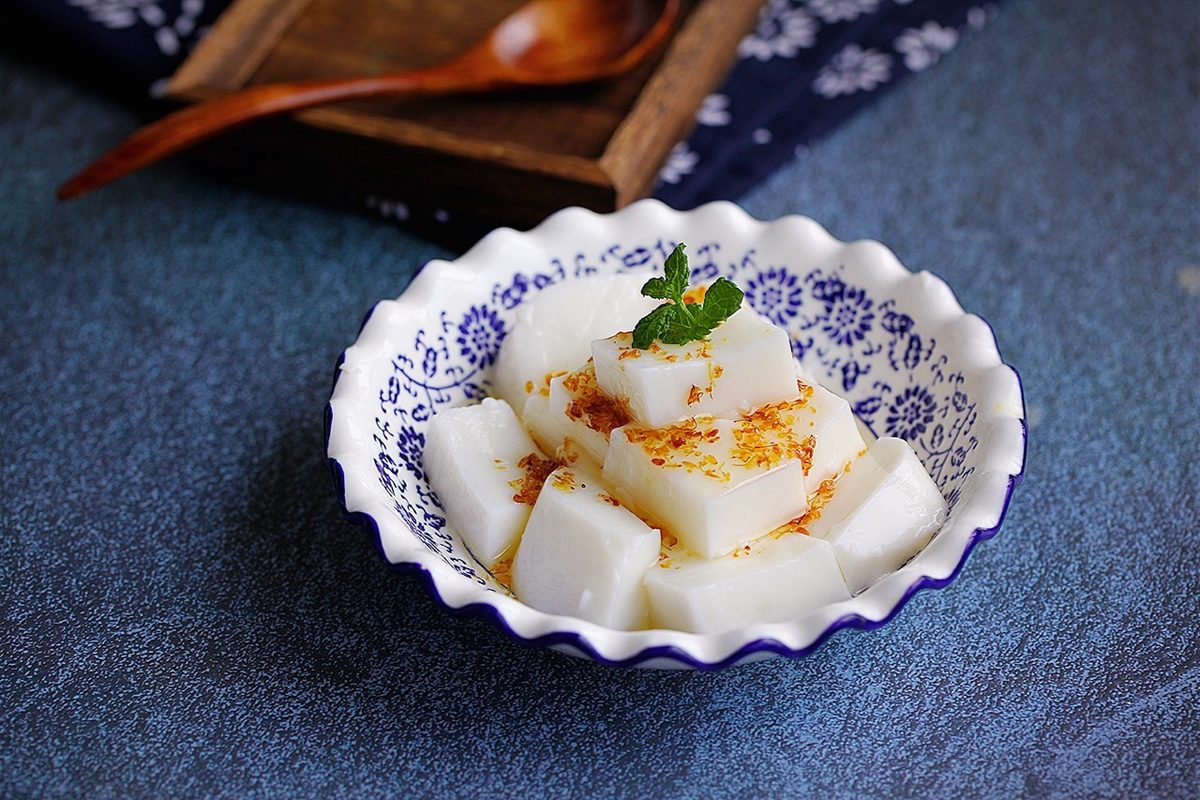
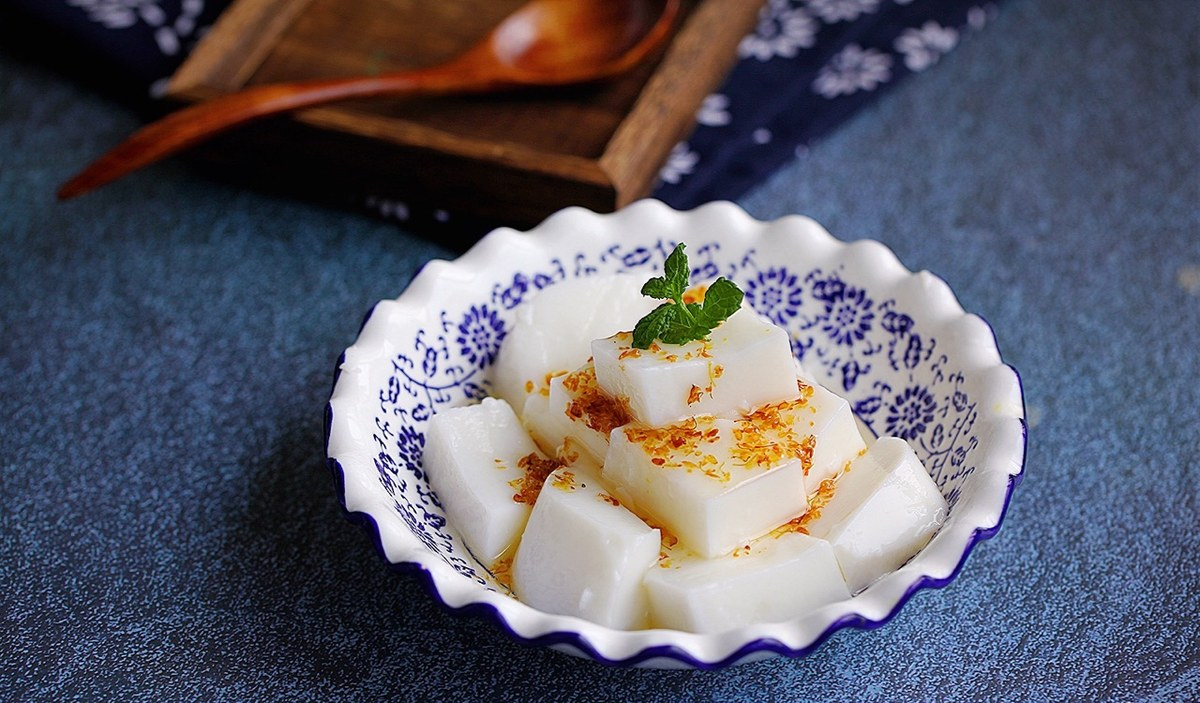
cuisine: almond tofu hero — crop bottom band, bump cache-bust to v=2

diff --git a/cuisine/almond-tofu/index.html b/cuisine/almond-tofu/index.html
@@ -19,7 +19,7 @@ gtag('config', 'G-R77QY66D94');
 <a href=/posts/index.xml title="Tech RSS feed — copy this link into your feed reader">Tech</a>
 <a href=/cuisine/index.xml title="Chinese Cuisine RSS feed — copy this link into your feed reader">Food</a>
 <a href=/tea/index.xml title="Chinese Tea RSS feed — copy this link into your feed reader">Tea</a>
-<a href=/drinks/index.xml title="Chinese Drinks RSS feed — copy this link into your feed reader">Chinese Drinks</a></span></div></nav></header><main><article class=cuisine-post><header><h1>Almond Tofu: No Tofu, No Almond, All Summer</h1><p class=byline>By <a href=/about/>Zhouyang</a> · Shanghai</p><div class=meta><time>2026-11-06</time> <span class=tags><span class=tag>beijing</span><span class=tag>dessert</span><span class=tag>sweet</span><span class=tag>summer</span><span class=tag>almond</span></span></div></header><div class=content><p><img src="/images/almond-tofu-1.jpg?v=1" alt="Almond tofu — a stack of white cubes dusted with dried osmanthus in a blue-and-white bowl" width="1200" height="800" decoding="async" fetchpriority="high"></p>
+<a href=/drinks/index.xml title="Chinese Drinks RSS feed — copy this link into your feed reader">Chinese Drinks</a></span></div></nav></header><main><article class=cuisine-post><header><h1>Almond Tofu: No Tofu, No Almond, All Summer</h1><p class=byline>By <a href=/about/>Zhouyang</a> · Shanghai</p><div class=meta><time>2026-11-06</time> <span class=tags><span class=tag>beijing</span><span class=tag>dessert</span><span class=tag>sweet</span><span class=tag>summer</span><span class=tag>almond</span></span></div></header><div class=content><p><img src="/images/almond-tofu-1.jpg?v=2" alt="Almond tofu — a stack of white cubes dusted with dried osmanthus in a blue-and-white bowl" width="1200" height="703" decoding="async" fetchpriority="high"></p>
 <p>The bowl lands on the table already sweating. Condensation runs down its side and pools in a ring on the wood. Inside: a white cube, half sunk in clear syrup, with a few dried osmanthus flowers floating around it like something that drowned there. When you set the bowl down, the cube trembles. Then it holds still.</p>
 <p>Beijing, July, the kind of afternoon where the heat comes up through your soles. I was twenty-six, in town for a week with no plan beyond walking until I got hungry, and I ducked into a sweet shop on a hutong side street for the air conditioning. The waiter set the bowl down and said the name — 杏仁豆腐 — the way you'd say the name of an old friend who isn't doing well. I asked whether it was made with almonds. He looked at me, decided the question wasn't worth a full sentence, and said: eat it.</p>
 <p>The name is wrong twice. 杏仁豆腐 (<em>xìngrén dòufu</em>) means "apricot kernel tofu." English menus flattened the first word into "almond" and dropped the second half of the story. So: no almond, not the kind you eat out of a bag. The kernel comes from an apricot or a peach pit. And no tofu — no soybean, no nigari, no cloth-pressed curds. The set comes from agar or gelatin. It is a milk pudding named for what it looked like, and the name went abroad and took the recipe with it.</p>
